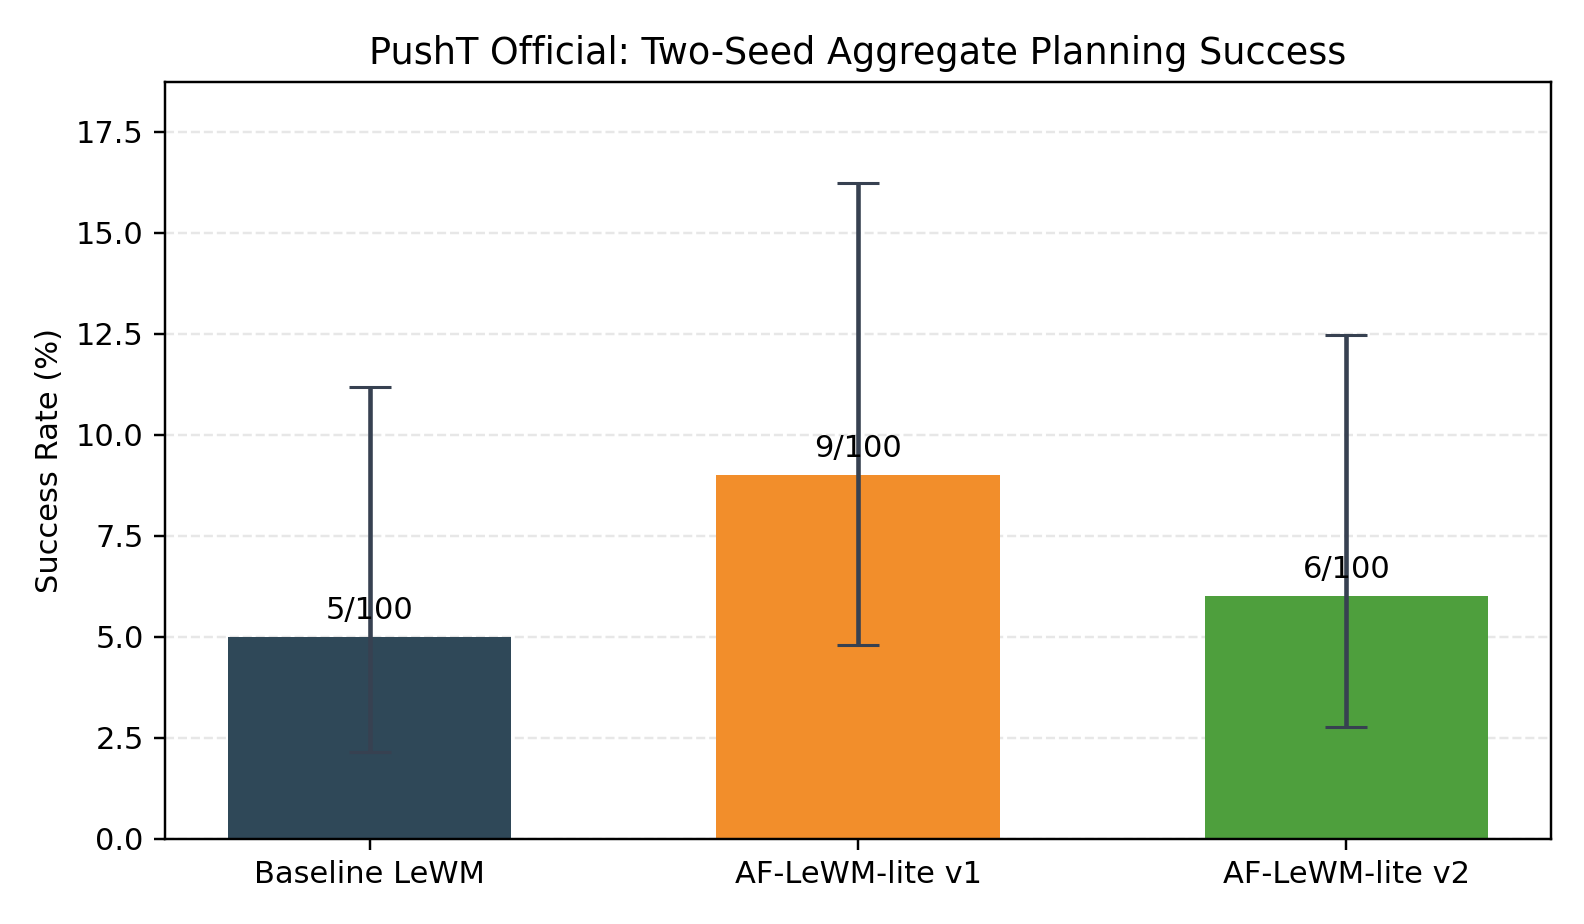
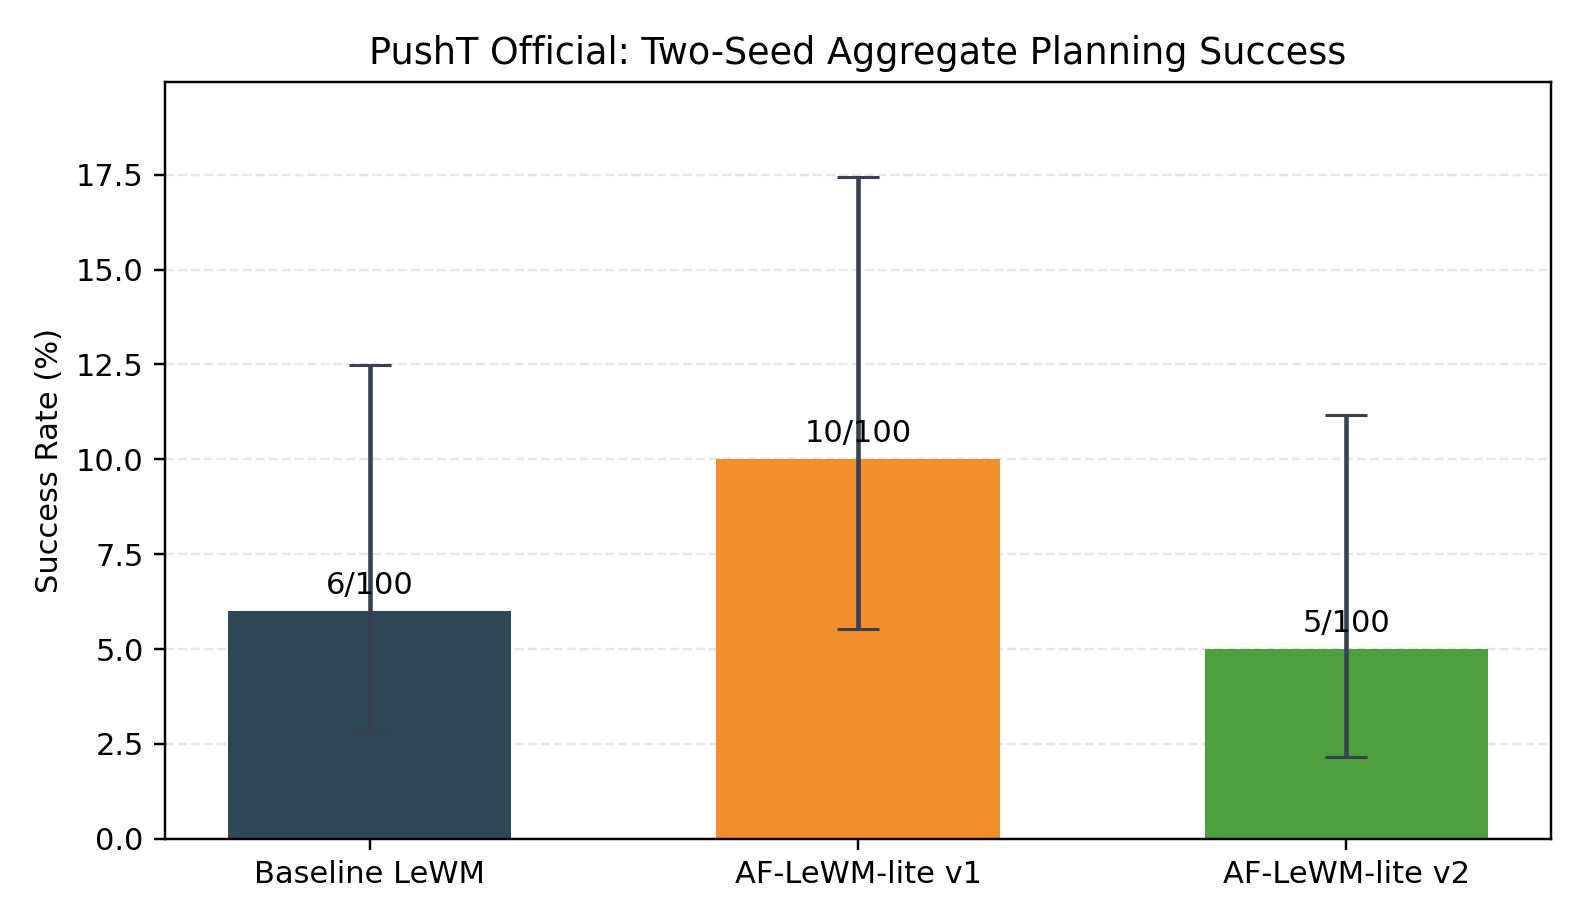
Sync report sources with exact eval rerun

diff --git a/tools/generate_pusht_official_report_assets.py b/tools/generate_pusht_official_report_assets.py
@@ -287,13 +287,26 @@ def build_summary() -> tuple[list[dict[str, object]], dict[str, list[dict[str, f
     return summary_rows, curves, warnings
 
 
-def write_json(summary_rows: list[dict[str, object]], curves: dict[str, list[dict[str, float]]], warnings: list[str]) -> None:
-    payload = {
-        "schema_version": 2,
+def capture_generation_context() -> dict[str, object]:
+    return {
         "generated_at": datetime.now(timezone.utc).isoformat(),
-        "source_mode": "live" if not warnings else "mixed",
         "git_head_at_generation": run_git(["rev-parse", "HEAD"]),
         "git_worktree_at_generation": git_worktree_summary(),
+    }
+
+
+def write_json(
+    summary_rows: list[dict[str, object]],
+    curves: dict[str, list[dict[str, float]]],
+    warnings: list[str],
+    generation_context: dict[str, object],
+) -> None:
+    payload = {
+        "schema_version": 2,
+        "generated_at": generation_context["generated_at"],
+        "source_mode": "live" if not warnings else "mixed",
+        "git_head_at_generation": generation_context["git_head_at_generation"],
+        "git_worktree_at_generation": generation_context["git_worktree_at_generation"],
         "artifact_commit_note": (
             "This file is generated before the commit that may contain it; "
             "use git_head_at_generation for the source tree used during generation."
@@ -454,10 +467,12 @@ def save_diagram_sources() -> None:
 """,
         "implementation_fix_map.mmd": """flowchart LR
   A["Prior risk: clip-level split leakage"] --> B["Episode-disjoint train/val split"]
-  C["Prior risk: full-data normalizer"] --> D["Normalizer fitted on train episodes"]
+  C["Prior risk: eval/train scaler mismatch"] --> D["Exact train-split scaler reconstruction"]
   E["Prior risk: stale checkpoint resume"] --> F["Fresh-run fail-fast unless resume=True"]
   G["Prior risk: invalid CEM candidates"] --> H["Bound normalized candidates and elites"]
-  I["Prior risk: weak result provenance"] --> J["Store split/train/eval source metadata"]
+  I["Prior risk: stale rendered goal marker"] --> J["Sync PushT goal render caches after reset"]
+  K["Prior risk: serialized 50-env CEM"] --> L["Batch solver across eval envs without candidate pixel expansion"]
+  M["Prior risk: weak result provenance"] --> N["Store dataset/split/train/eval source metadata"]
 """,
     }
     for filename, text in sources.items():
@@ -537,28 +552,32 @@ def draw_experiment_flow() -> None:
 
 
 def draw_fix_map() -> None:
-    fig, ax = plt.subplots(figsize=(12.2, 4.8))
+    fig, ax = plt.subplots(figsize=(12.2, 6.4))
     ax.set_xlim(0, 12.2)
-    ax.set_ylim(0, 4.8)
+    ax.set_ylim(0, 6.4)
     ax.axis("off")
     ax.set_title("Implementation Fix Map", fontsize=15, fontweight="bold", pad=12)
 
     left = [
         "Clip-level\nsplit leakage",
-        "Full-data\nnormalizer",
+        "Eval/train\nscaler mismatch",
         "Stale checkpoint\nresume",
         "Unbounded\nCEM candidates",
+        "Stale rendered\ngoal marker",
+        "Serialized\n50-env CEM",
         "Weak provenance\nfor report",
     ]
     right = [
         "Episode-disjoint\nsplit",
-        "Train-episode\nnormalizer",
+        "Exact train-split\nscaler",
         "Fresh-run\nfail-fast",
         "Clamp normalized\ncandidate blocks",
-        "Split / train / eval\nmetadata",
+        "Sync PushT\nrender caches",
+        "Batch solver\nwithout pixel blowup",
+        "Dataset / split /\ntrain / eval metadata",
     ]
     for i, (ltext, rtext) in enumerate(zip(left, right)):
-        y = 3.75 - i * 0.72
+        y = 5.05 - i * 0.74
         lbox = add_box(ax, (0.35, y), ltext, "#FEE2E2", width=3.0, height=0.52)
         rbox = add_box(ax, (8.85, y), rtext, "#DCFCE7", width=3.0, height=0.52)
         add_arrow(ax, lbox, rbox, "fix")
@@ -702,12 +721,14 @@ Each epoch-10 object checkpoint is evaluated on two independent 50-start samples
 \section*{{Implementation Fixes}}
 \begin{{itemize}}[leftmargin=1.2em, itemsep=0.16em, topsep=0.16em]
   \item Training now uses episode-disjoint subsets rather than overlapping clip-level random split.
-  \item Action, proprioception, and state normalizers are fitted on training episodes only.
+  \item Evaluation reconstructs the exact training normalizers from the recorded train split metadata.
   \item Fresh reliable runs fail fast when old metrics or checkpoints already exist.
   \item Evaluation reconstructs the raw 15-step history window and compresses it to the model's 3-frame context.
   \item Goal indexing is asserted against the planned raw-step horizon.
+  \item PushT goal rendering caches are synchronized after dataset-goal reset before replanning.
+  \item Batched CEM evaluates all 50 envs together without expanding pixels or goal images over candidate samples.
   \item CEM candidate actions, elite means, and returned normalized plans are clamped to normalized env action bounds before inverse transform.
-  \item Evaluation writes row, episode, and start-step provenance for every sampled rollout.
+  \item Evaluation writes row, episode, start-step, train split, checkpoint, and raw dataset provenance.
 \end{{itemize}}
 
 \begin{{figure}}[h]
@@ -759,7 +780,7 @@ Model & Aggregate success & Wilson 95\% CI \\
 \section*{{Interpretation}}
 The corrected result should be read conservatively. The best model in this rerun is \textbf{{{tex_escape(best['model'])}}}, but the aggregate success counts are small and the intervals overlap. The current study is useful as a reliability-checked ablation of the AF shaping idea; it does not establish a strong PushT control result.
 
-The most important conclusion is methodological: after removing split leakage, full-data normalization, stale checkpoint continuation, and invalid CEM candidate actions, any remaining weakness is visible in the audited protocol rather than hidden in the implementation.
+The most important conclusion is methodological: after removing split leakage, eval/train scaler mismatch, stale checkpoint continuation, stale target rendering, and invalid CEM candidate actions, any remaining weakness is visible in the audited protocol rather than hidden in the implementation.
 
 \vfill
 {{\small\color{{muted}}
@@ -773,12 +794,13 @@ Generated from \texttt{{tools/generate\_pusht\_official\_report\_assets.py}} usi
 
 def main() -> None:
     REPORT_DIR.mkdir(exist_ok=True)
+    generation_context = capture_generation_context()
     save_diagram_sources()
     draw_model_pipeline()
     draw_experiment_flow()
     draw_fix_map()
     summary_rows, curves, warnings = build_summary()
-    write_json(summary_rows, curves, warnings)
+    write_json(summary_rows, curves, warnings, generation_context)
     write_csv(summary_rows)
     plot_success(summary_rows)
     plot_core_loss(curves)

diff --git a/report/pusht_aflewm_official_summary.tex b/report/pusht_aflewm_official_summary.tex
@@ -43,7 +43,7 @@
 \vspace{0.2em}
 \fcolorbox{accent}{accentlight}{%
   \parbox{\dimexpr\linewidth-2\fboxsep-2\fboxrule\relax}{
-    \textbf{Bottom line.} The reliable rerun reports \textbf{9/100} successes for \textbf{AF-LeWM-lite v1}. All models remain weak under the short matched budget, and the Wilson intervals overlap, so the current evidence supports an exploratory ranking rather than a benchmark-level claim.
+    \textbf{Bottom line.} The reliable rerun reports \textbf{10/100} successes for \textbf{AF-LeWM-lite v1}. All models remain weak under the short matched budget, and the Wilson intervals overlap, so the current evidence supports an exploratory ranking rather than a benchmark-level claim.
   }
 }
 
@@ -72,12 +72,14 @@ Each epoch-10 object checkpoint is evaluated on two independent 50-start samples
 \section*{Implementation Fixes}
 \begin{itemize}[leftmargin=1.2em, itemsep=0.16em, topsep=0.16em]
   \item Training now uses episode-disjoint subsets rather than overlapping clip-level random split.
-  \item Action, proprioception, and state normalizers are fitted on training episodes only.
+  \item Evaluation reconstructs the exact training normalizers from the recorded train split metadata.
   \item Fresh reliable runs fail fast when old metrics or checkpoints already exist.
   \item Evaluation reconstructs the raw 15-step history window and compresses it to the model's 3-frame context.
   \item Goal indexing is asserted against the planned raw-step horizon.
+  \item PushT goal rendering caches are synchronized after dataset-goal reset before replanning.
+  \item Batched CEM evaluates all 50 envs together without expanding pixels or goal images over candidate samples.
   \item CEM candidate actions, elite means, and returned normalized plans are clamped to normalized env action bounds before inverse transform.
-  \item Evaluation writes row, episode, and start-step provenance for every sampled rollout.
+  \item Evaluation writes row, episode, start-step, train split, checkpoint, and raw dataset provenance.
 \end{itemize}
 
 \begin{figure}[h]
@@ -94,9 +96,9 @@ Each epoch-10 object checkpoint is evaluated on two independent 50-start samples
 \toprule
 Model & Params (M) & Train (min) & Core loss & Seed 42 & Seed 43 & Aggregate \\
 \midrule
-Baseline LeWM & 18.03 & 9.69 & 0.14731 & 2/50 & 3/50 & 5/100 = 5.0\% \\
-AF-LeWM-lite v1 & 18.17 & 13.30 & 0.15033 & 4/50 & 5/50 & 9/100 = 9.0\% \\
-AF-LeWM-lite v2 & 18.24 & 14.02 & 0.15139 & 1/50 & 5/50 & 6/100 = 6.0\% \\
+Baseline LeWM & 18.03 & 9.69 & 0.14731 & 2/50 & 4/50 & 6/100 = 6.0\% \\
+AF-LeWM-lite v1 & 18.17 & 13.30 & 0.15033 & 5/50 & 5/50 & 10/100 = 10.0\% \\
+AF-LeWM-lite v2 & 18.24 & 14.02 & 0.15139 & 1/50 & 4/50 & 5/100 = 5.0\% \\
 \bottomrule
 \end{tabular}
 \end{table}
@@ -108,9 +110,9 @@ AF-LeWM-lite v2 & 18.24 & 14.02 & 0.15139 & 1/50 & 5/50 & 6/100 = 6.0\% \\
 \toprule
 Model & Aggregate success & Wilson 95\% CI \\
 \midrule
-Baseline LeWM & 5/100 = 5.0\% & [2.15\%, 11.18\%] \\
-AF-LeWM-lite v1 & 9/100 = 9.0\% & [4.81\%, 16.23\%] \\
-AF-LeWM-lite v2 & 6/100 = 6.0\% & [2.78\%, 12.48\%] \\
+Baseline LeWM & 6/100 = 6.0\% & [2.78\%, 12.48\%] \\
+AF-LeWM-lite v1 & 10/100 = 10.0\% & [5.52\%, 17.44\%] \\
+AF-LeWM-lite v2 & 5/100 = 5.0\% & [2.15\%, 11.18\%] \\
 \bottomrule
 \end{tabular}
 \end{table}
@@ -133,7 +135,7 @@ AF-LeWM-lite v2 & 6/100 = 6.0\% & [2.78\%, 12.48\%] \\
 \section*{Interpretation}
 The corrected result should be read conservatively. The best model in this rerun is \textbf{AF-LeWM-lite v1}, but the aggregate success counts are small and the intervals overlap. The current study is useful as a reliability-checked ablation of the AF shaping idea; it does not establish a strong PushT control result.
 
-The most important conclusion is methodological: after removing split leakage, full-data normalization, stale checkpoint continuation, and invalid CEM candidate actions, any remaining weakness is visible in the audited protocol rather than hidden in the implementation.
+The most important conclusion is methodological: after removing split leakage, eval/train scaler mismatch, stale checkpoint continuation, stale target rendering, and invalid CEM candidate actions, any remaining weakness is visible in the audited protocol rather than hidden in the implementation.
 
 \vfill
 {\small\color{muted}

diff --git a/README.md b/README.md
@@ -119,9 +119,9 @@ The April 22, 2026 rerun uses two 50-start evaluation seeds per model.
 
 | Model | Seed 42 | Seed 43 | Aggregate | Wilson 95% CI |
 | --- | ---: | ---: | ---: | ---: |
-| Baseline LeWM | 2/50 | 3/50 | 5/100 = 5.0% | [2.15%, 11.18%] |
-| AF-LeWM-lite v1 | 4/50 | 5/50 | 9/100 = 9.0% | [4.81%, 16.23%] |
-| AF-LeWM-lite v2 | 1/50 | 5/50 | 6/100 = 6.0% | [2.78%, 12.48%] |
+| Baseline LeWM | 2/50 | 4/50 | 6/100 = 6.0% | [2.78%, 12.48%] |
+| AF-LeWM-lite v1 | 5/50 | 5/50 | 10/100 = 10.0% | [5.52%, 17.44%] |
+| AF-LeWM-lite v2 | 1/50 | 4/50 | 5/100 = 5.0% | [2.15%, 11.18%] |
 
 The evidence supports a reliability-checked exploratory ranking. The success counts are small and the intervals overlap.
 